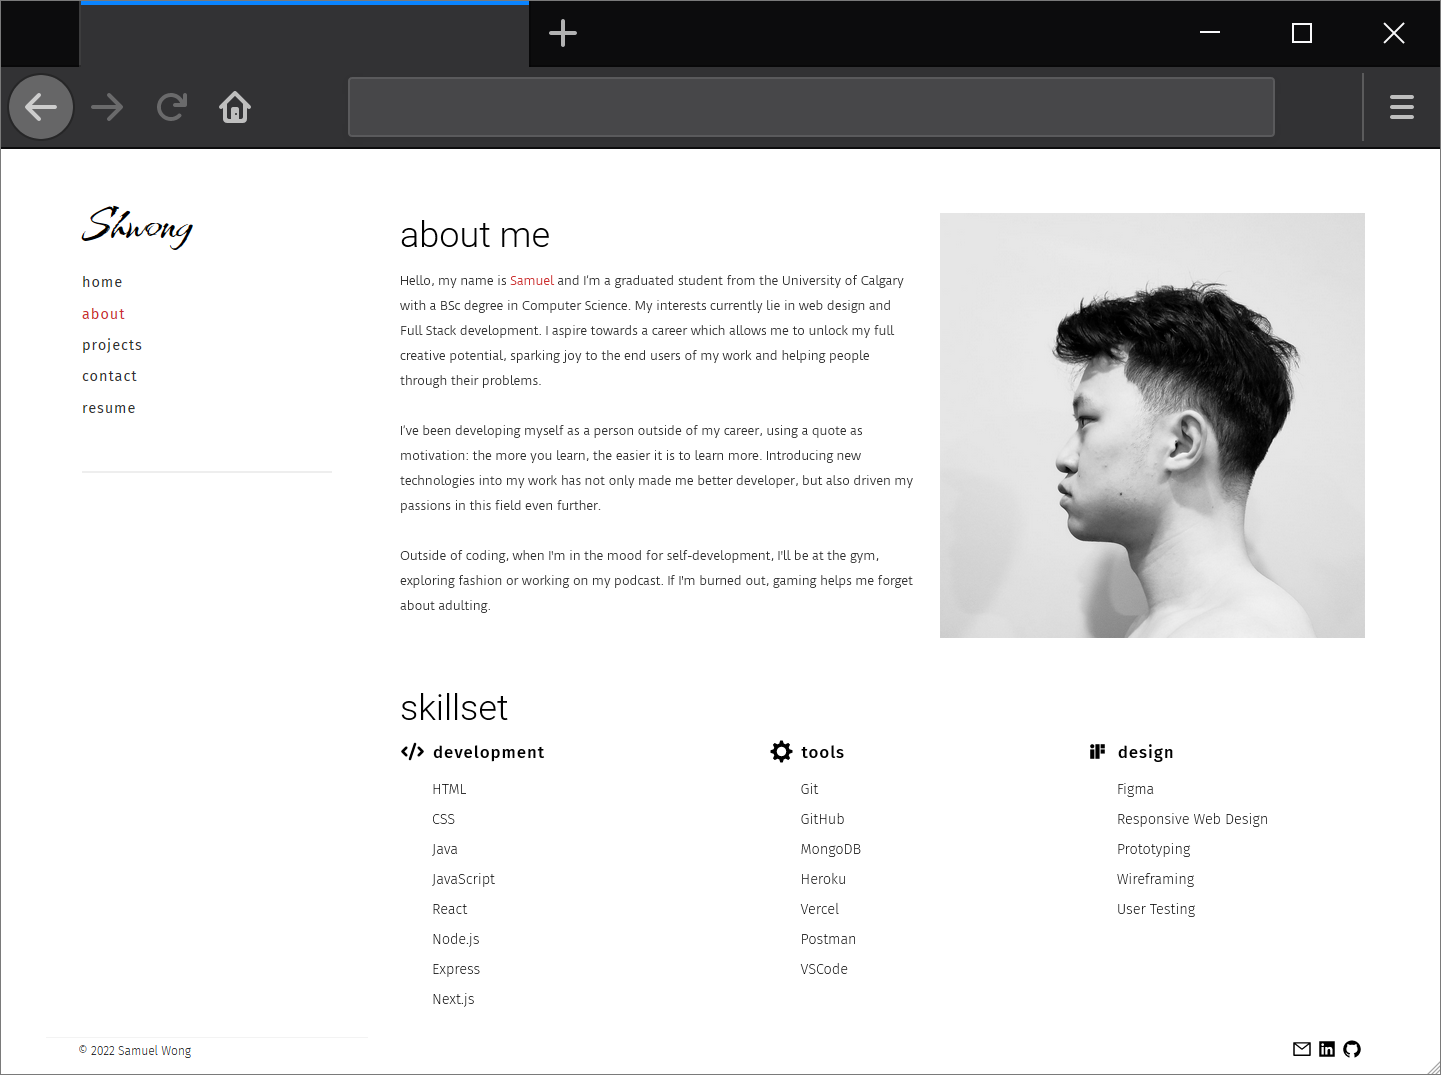
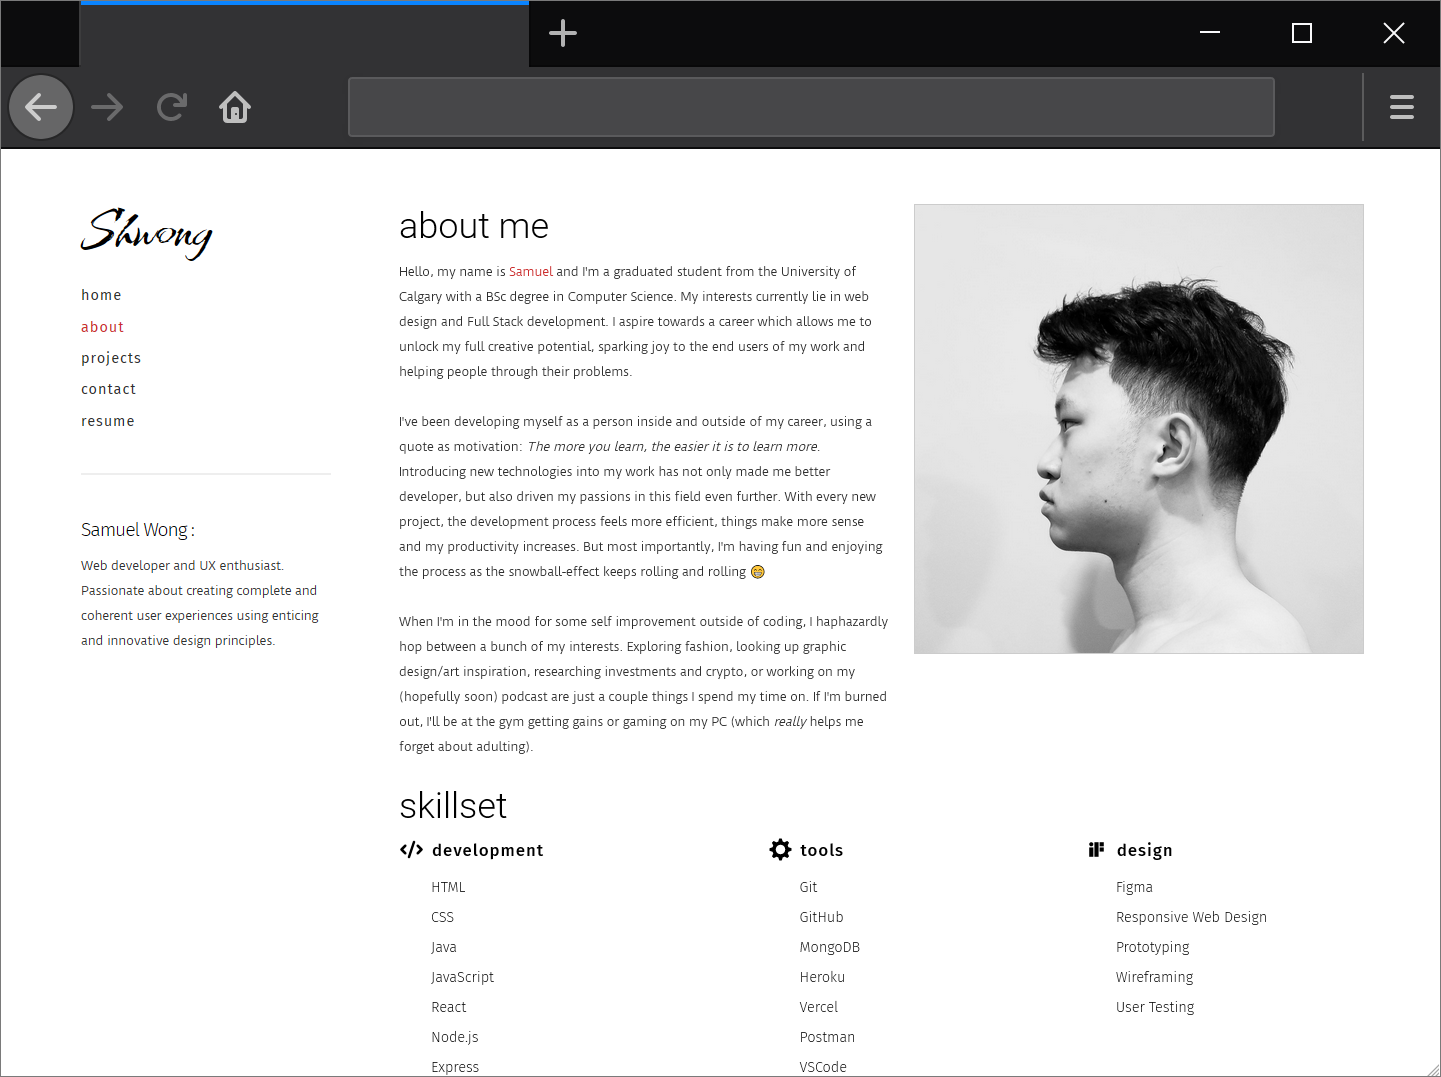
updated about desc + pictures

diff --git a/pages/about.js b/pages/about.js
@@ -77,8 +77,8 @@ const About = () => {
                 through their problems.
                 <br />
                 <br />
-                I&#39;ve been developing myself as a person outside of my
-                career, using a quote as motivation:{" "}
+                I&#39;ve been developing myself as a person inside and outside
+                of my career, using a quote as motivation:{" "}
                 <span className={styles.span2}>
                   The more you learn, the easier it is to learn more.
                 </span>{" "}
@@ -87,16 +87,16 @@ const About = () => {
                 further. With every new project, the development process feels
                 more efficient, things make more sense and my productivity
                 increases. But most importantly, I&#39;m having fun and enjoying
-                the process as the snowball-effect keeps rolling and rolling 😁
+                the process as the snowball-effect keeps rolling and rolling!
                 <br />
                 <br />
                 When I&#39;m in the mood for some self improvement outside of
                 coding, I haphazardly hop between a bunch of my interests.
                 Exploring fashion, looking up graphic design/art inspiration,
                 researching investments and crypto, or working on my (hopefully
-                soon) podcast are just a few things I spend my time on. If
-                I&#39;m burned out, I&#39;ll be at the gym &#34;gettin&#39;
-                those gains&#34; or gaming on my PC (which{" "}
+                soon) podcast are just a couple things I spend my time on. If
+                I&#39;m burned out, I&#39;ll be at the gym getting gains or
+                gaming on my PC (which{" "}
                 <span className={styles.span2}>really</span> helps me forget
                 about adulting).
               </p>
